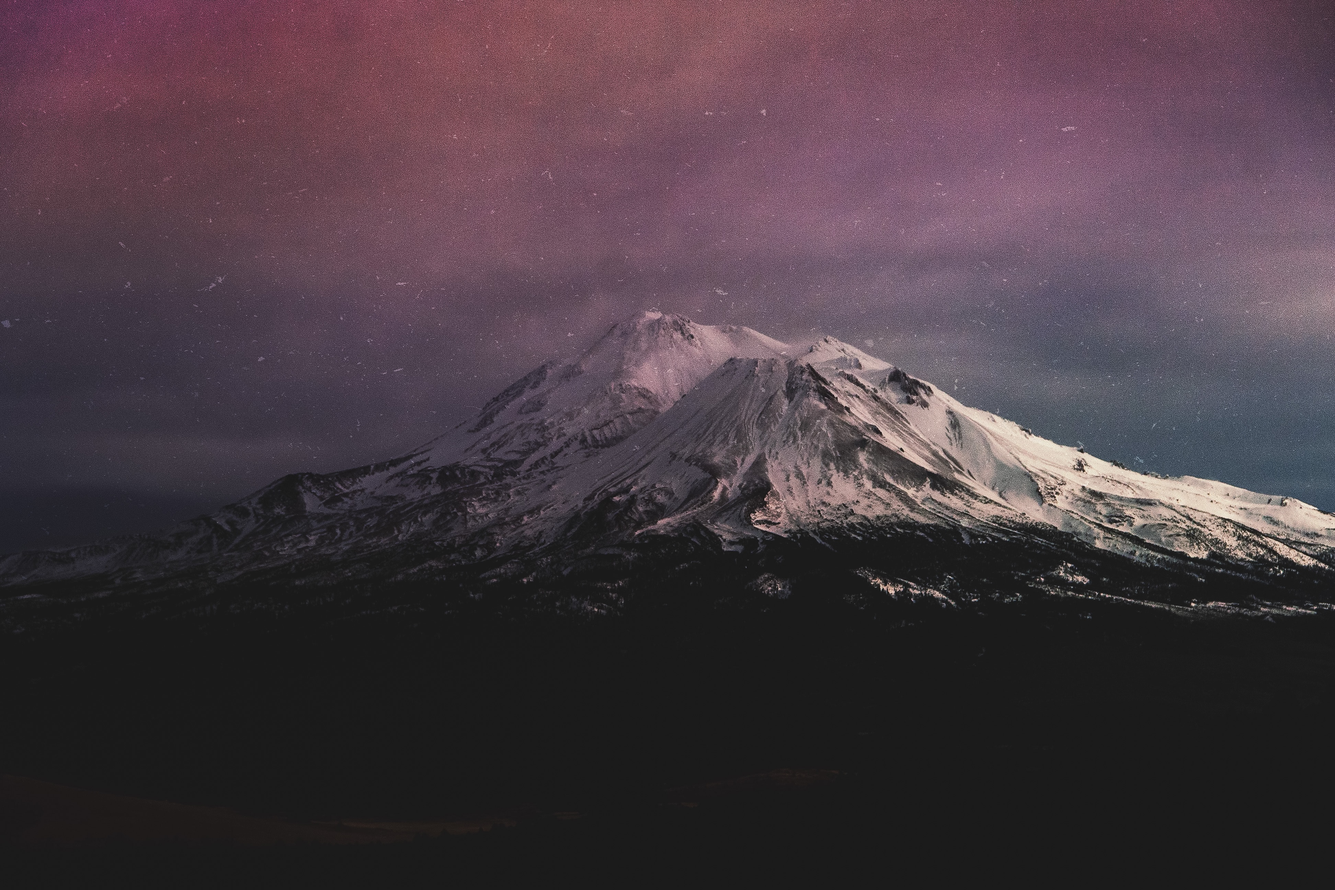
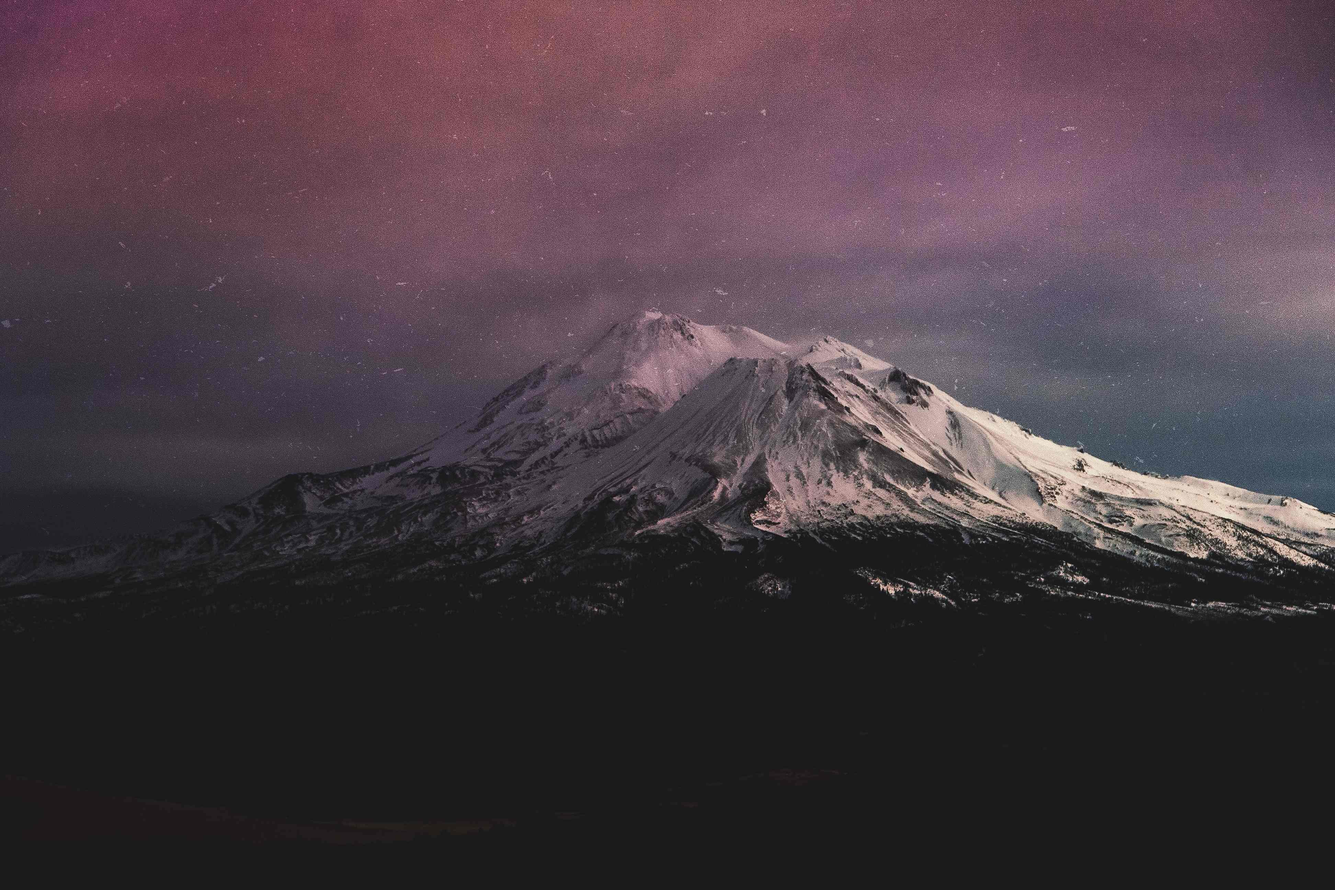
PERF: 배경 이미지 최적화
- 배경 이미지의 용량 변경 (2.83mb - 0.98mb)

diff --git a/.eslintrc.js b/.eslintrc.js
@@ -21,9 +21,9 @@ module.exports = {
         'no-unused-vars': 'off',
         'import/no-extraneous-dependencies': ['error', { devDependencies: true }],
         'comma-dangle': ['error', 'never'],
-        "allowForLoopAfterthoughts": true,
+        allowForLoopAfterthoughts: true,
         'no-plusplus': [2, { allowForLoopAfterthoughts: true }],
-        "max-len": [2, 200, 4]
+        'max-len': [2, 200, 4]
     },
     parserOptions: {
         parser: 'babel-eslint',
